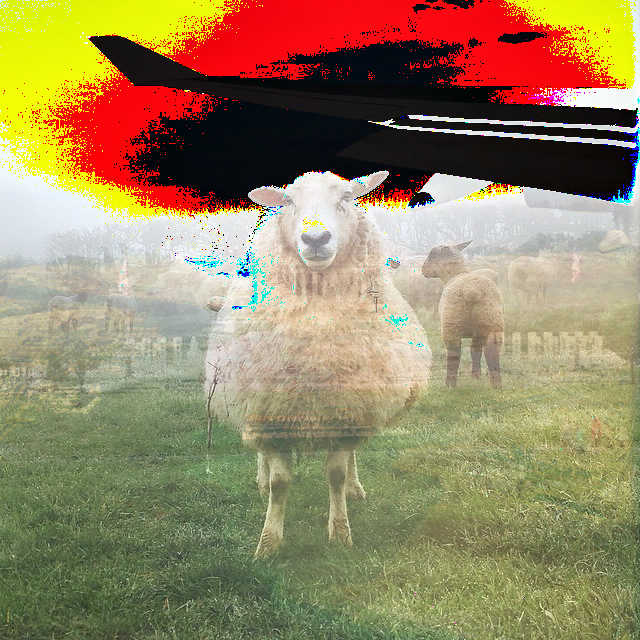
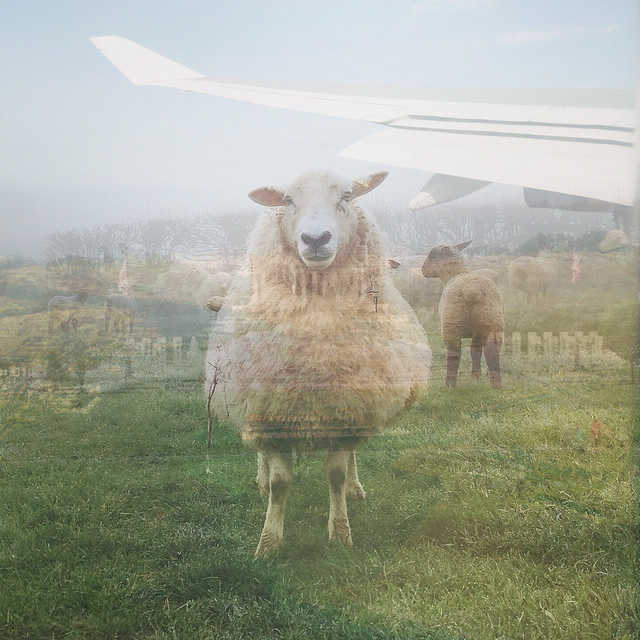
0076 - node --harmony /index.js

diff --git a/sketches/0076/index.js b/sketches/0076/index.js
@@ -27,27 +27,6 @@ var getBasePixels = function*(imgPath){
 	});
 }
 
-var mergeColors = function(id, colors){
-	var minId = Math.floor(id);
-	var maxId = Math.ceil(id);
-
-	var maxPart = id - minId;
-	var minPart = 1 - maxPart;
-
-	var minColor = colors[minId];
-	var maxColor = colors[maxId];
-
-	var color = [];
-	for(var i=0; i<minColor.length; i++){
-		var min = minColor[i] * minPart;
-		var max = maxColor[i] * maxPart;
-
-		color[i] = Math.floor(min + max); 
-	}
-
-	return color;
-}
-
 var score = function(a, b){
 	var total = 0;
 	for(var i=0; i<a.length; i++){
@@ -93,12 +72,12 @@ co(function*(){
 		return Math.max.apply(null, a);
 	}
 
-	var numImgs = listOfImages.length;
+	var numImgs = others.length;
 	
 	var records = [];
 
 	for(var b=0; b<numImgs; b++){
-		var imgId = listOfImages[b];
+		var imgId = others[b];
 		var imgPath =  getPath(imgId);
 		console.log("parse "+imgPath+" "+b+" of "+numImgs);
 		var img = yield getBasePixels(imgPath);
@@ -143,7 +122,7 @@ co(function*(){
 		
 		var d = a + b + c;
 
-		d = Math.floor(d/3);
+		d = Math.floor(d/3.5);
 
 		return d;
 	}
